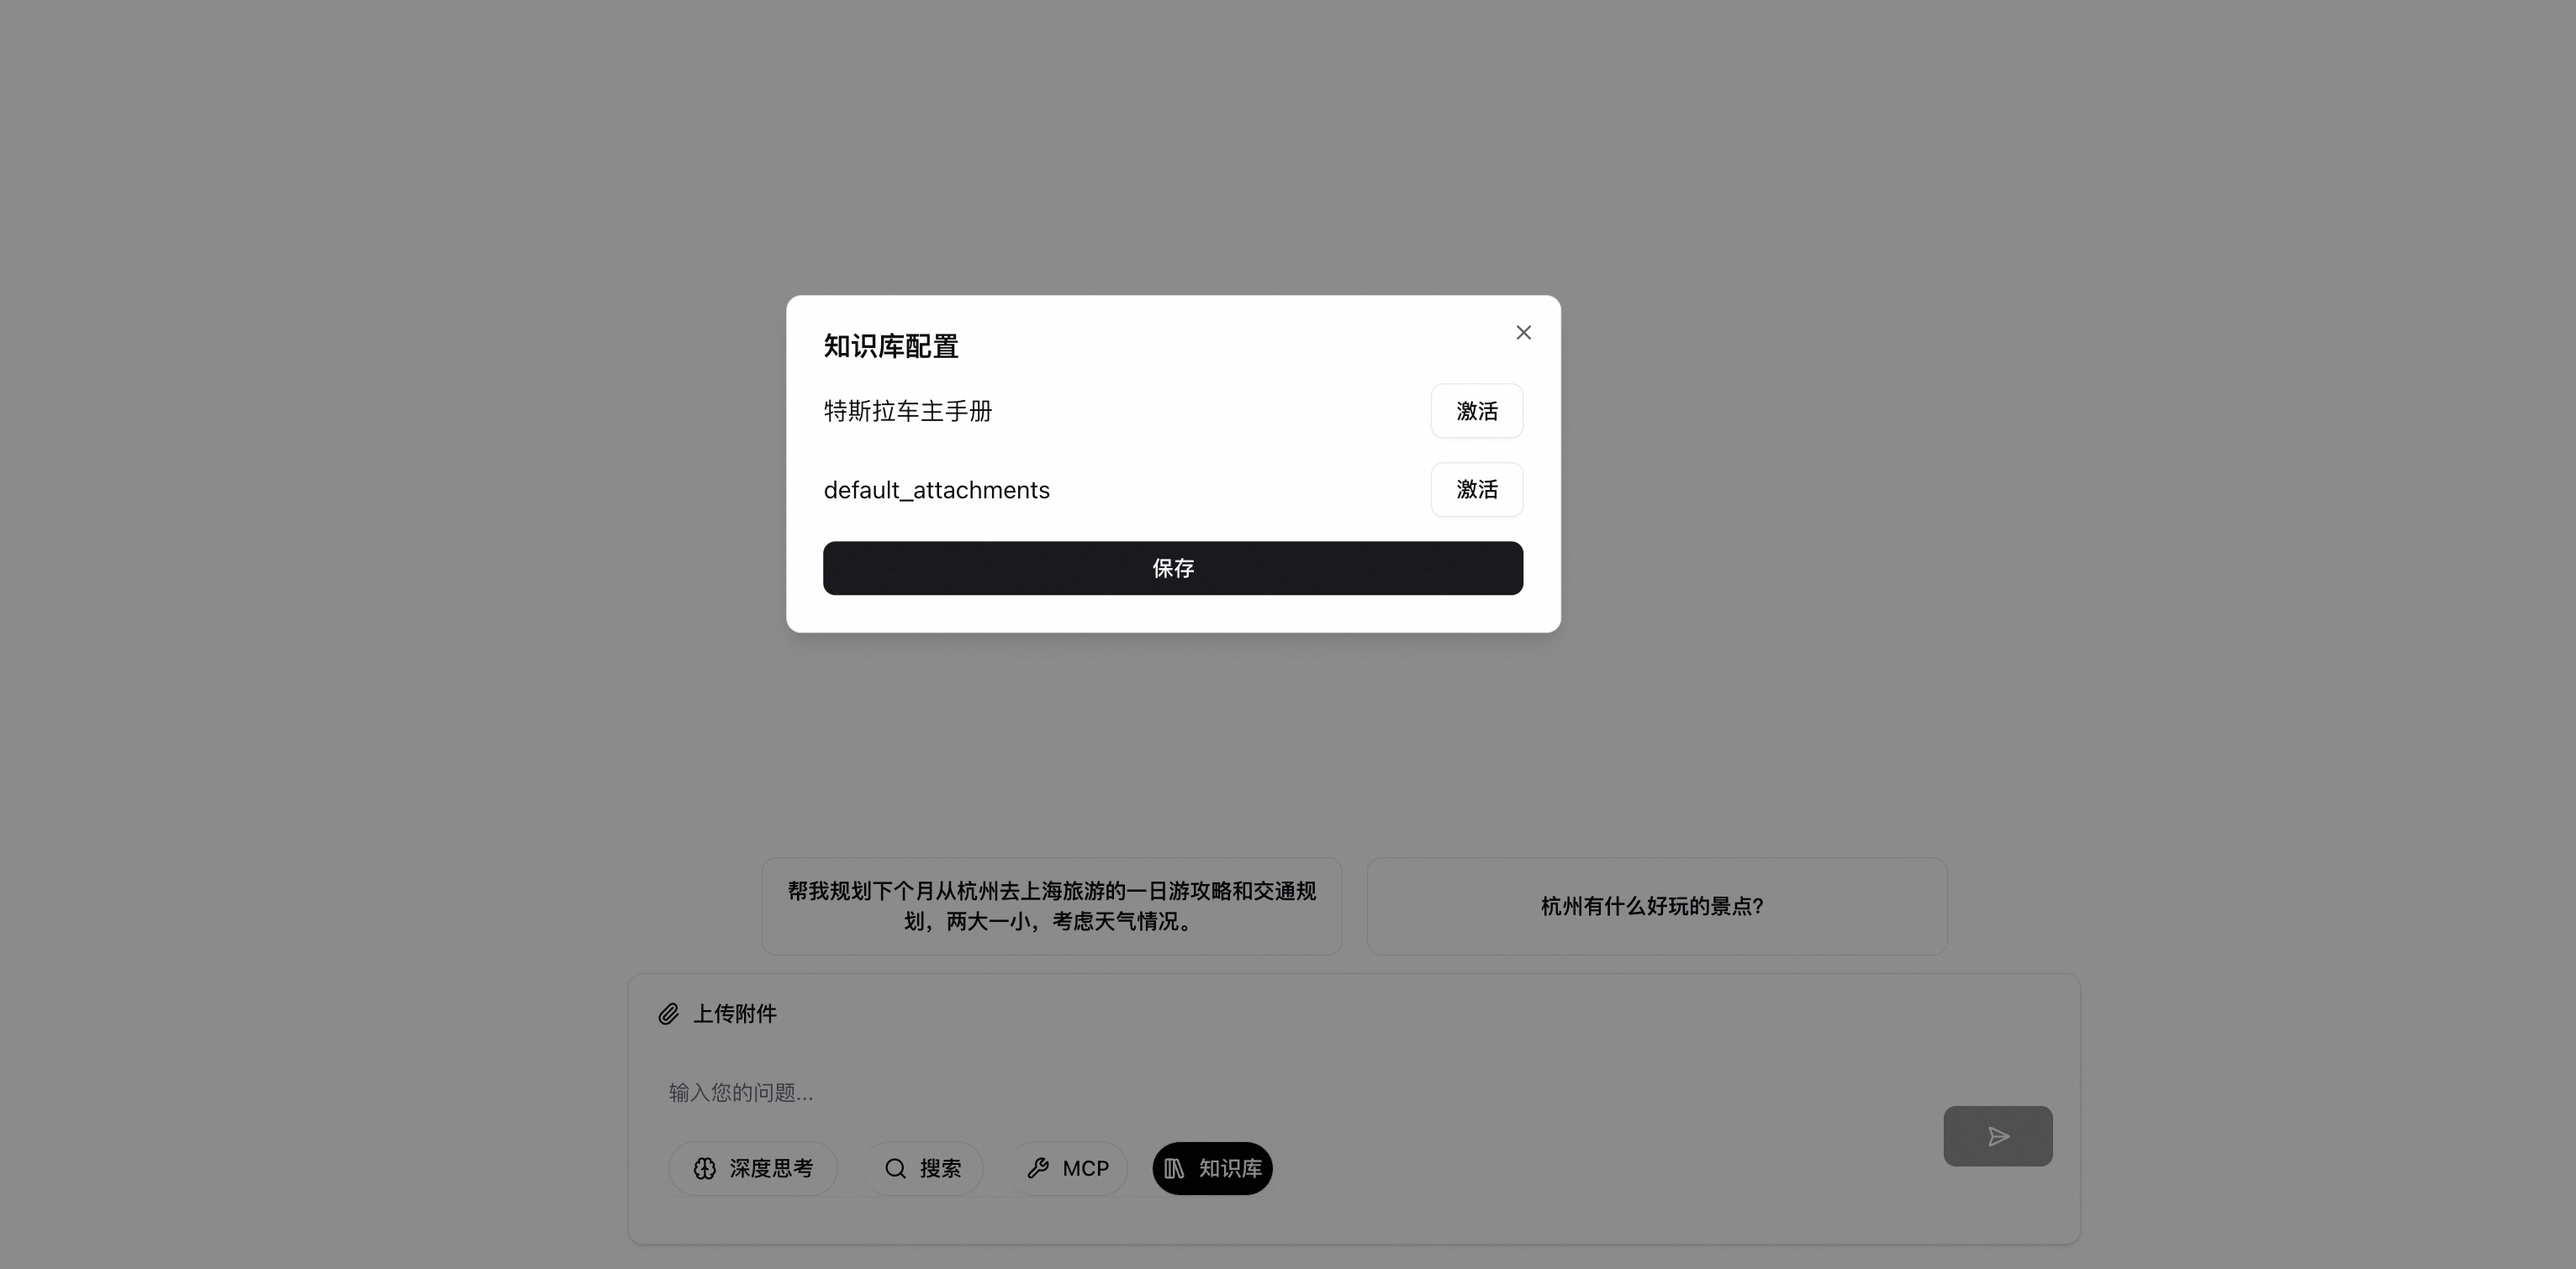
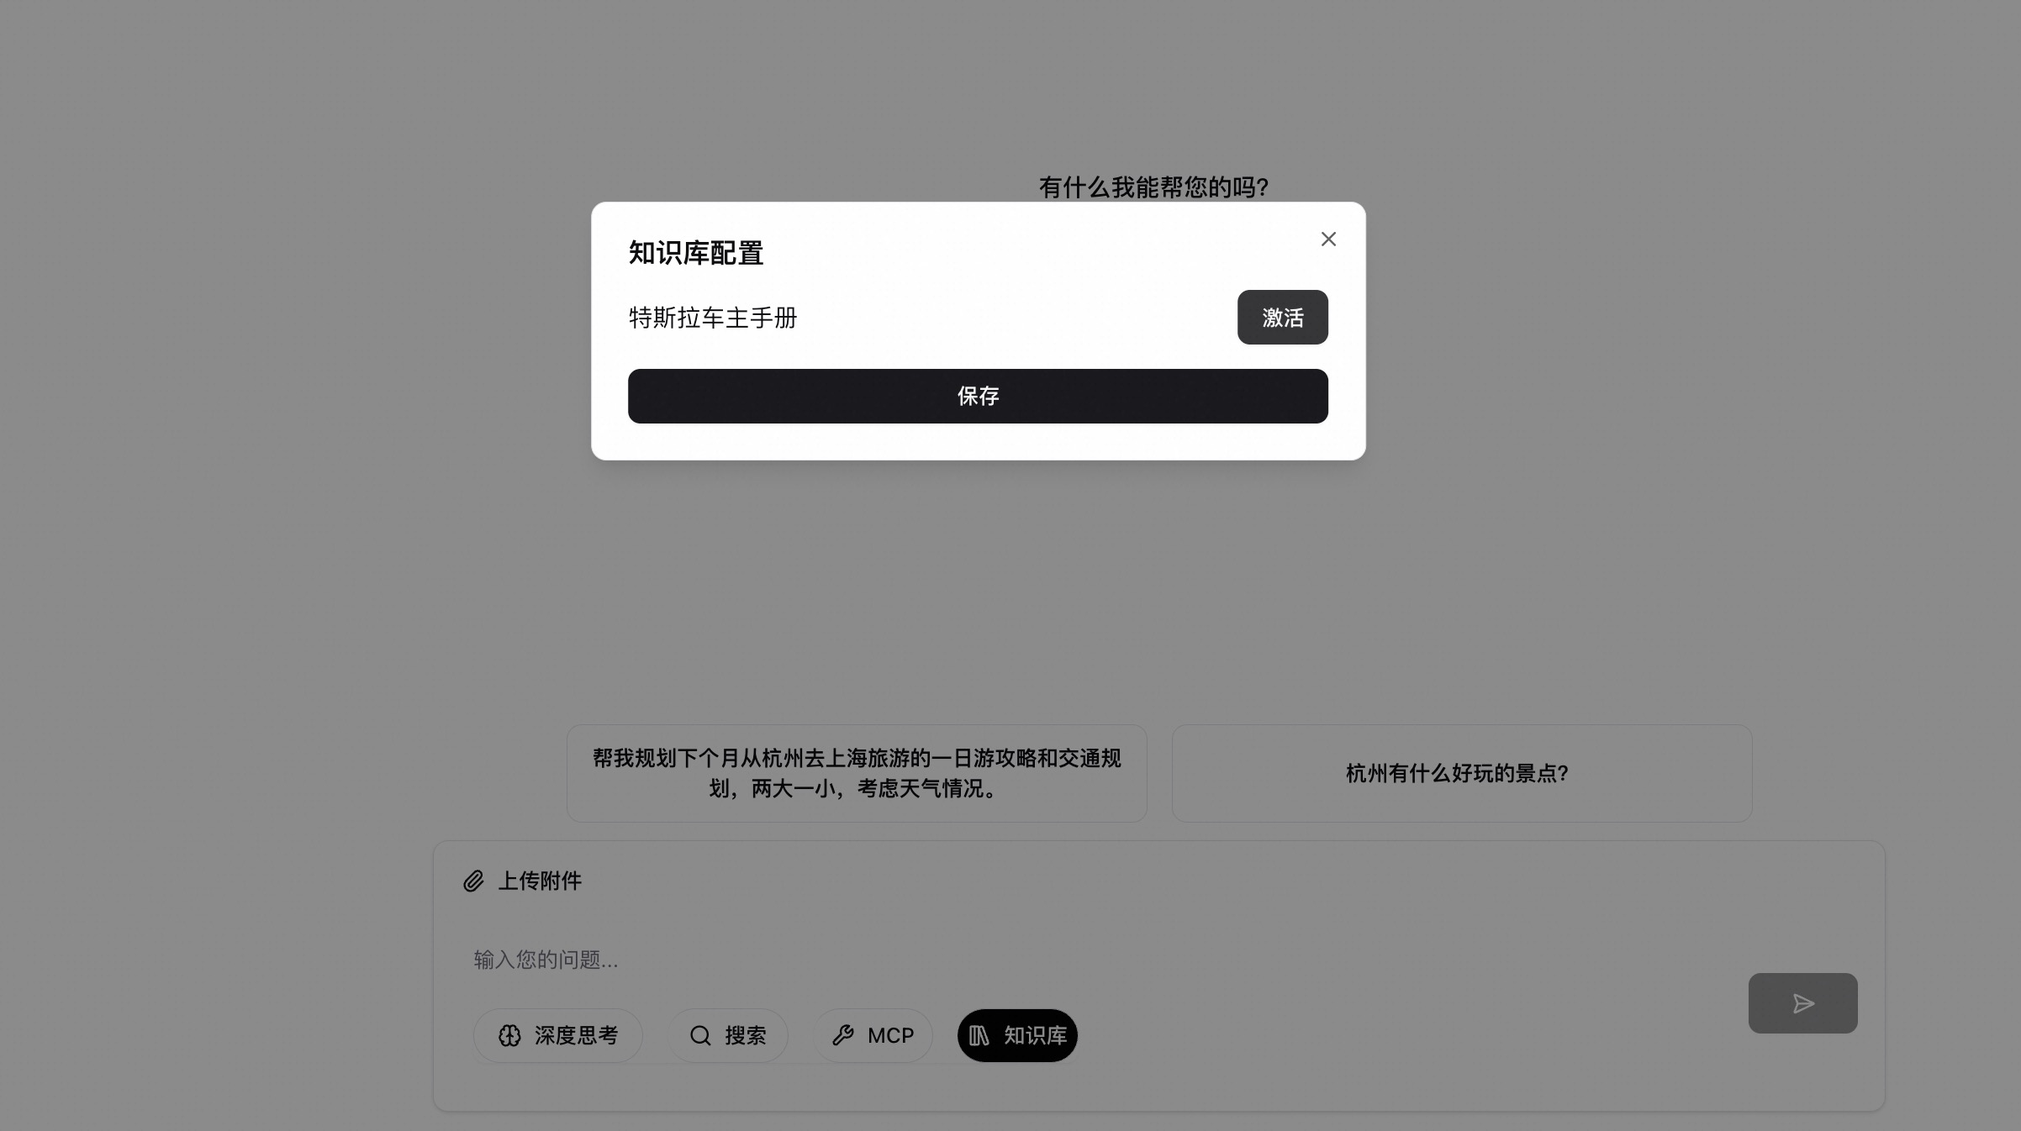
Bugfix for embedding

diff --git a/backend/api/v1/config_apis/embedding.py b/backend/api/v1/config_apis/embedding.py
@@ -18,6 +18,7 @@ from api.response_model import PagedResult, ResponseModel, success_response, err
 from config.providers.config_change_manager import config_change_manager
 from api.v1.utils.paginate import get_pagination_meta
 from config.providers.knowledgebase_provider import knowledgebase_provider
+from rag.chunk_helper import set_embedding_model_ready
 from loguru import logger
 
 embedding_router = APIRouter()
@@ -46,6 +47,10 @@ async def create_embedding(
         if embedding.type == EmbeddingType.LOCAL:
             import app.worker as background_worker
             background_worker.download_model.delay(model_id=embedding.id, model_name=embedding.model_name)
+        elif embedding.type == EmbeddingType.OPENAI_LIKE:
+            await set_embedding_model_ready(model_id=embedding.id)
+        else:
+            logger.error(f"Unknown embedding type {embedding.type}.")
         return success_response(data=embedding, message="创建embedding模型成功。")
     except IntegrityError as e:
         logger.error(f"IntegrityError occurred when add embedding: {e.orig}")

diff --git a/backend/db/models/knowledgebase/metadata_filter.py b/backend/db/models/knowledgebase/metadata_filter.py
@@ -63,18 +63,16 @@ async def query_file_ids_with_metadata_filter(
     metadata_filter: MetadataFilteringCondition,
     user_id: str = None,
 ) -> list[str]:
-    if metadata_filter is None or metadata_filter.conditions is None:
-        return []
 
     # 为了简化实现复杂度，把metadata设定在file这一层
     # TODO: possible limitations: IN clause长度过长导致执行速度慢/超出限制？
     filters = []
 
-
-    for condition in metadata_filter.conditions:
-        condition_filter = _build_metadata_condition_(condition)
-        if condition_filter is not None:
-            filters.append(condition_filter)
+    if metadata_filter is not None and metadata_filter.conditions is not None:
+        for condition in metadata_filter.conditions:
+            condition_filter = _build_metadata_condition_(condition)
+            if condition_filter is not None:
+                filters.append(condition_filter)
 
     sub_clauses = [KbFileEntity.active, KbFileEntity.kb_id == kb_id]
     if len(filters) > 0:

diff --git a/backend/db/models/knowledgebase/embedding.py b/backend/db/models/knowledgebase/embedding.py
@@ -30,8 +30,6 @@ class EmbeddingModel(SQLModel):
     def set_is_ready(self) -> 'EmbeddingModel':
         if self.embed_batch_size <= 0:
             self.embed_batch_size = 10
-        if self.is_ready is None:
-            self.is_ready = self.type == EmbeddingType.OPENAI_LIKE
         return self
 
 

diff --git a/docs/multimodal.md b/docs/multimodal.md
@@ -7,7 +7,9 @@
 - 准备好支持多模态的LLM模型（如Qwen-VL、LLaVA、GPT-4V等）的访问权限
 - 准备测试用图片文件（支持格式：JPG、PNG、JPEG，建议大小<10MB）
 
-## 配置LLM
+## 配置模型 (LLM 和 Embedding)
+
+### 配置LLM
 
 1. 进入模型配置页面
 
@@ -49,8 +51,41 @@
 
 - 点击 "保存" 完成配置
 
+4. 验证模型配置
+   配置成功后，模型列表中应显示新添加的多模态模型和大语言模型，两个模型状态均为"已激活"
+   ![add_llm_models](images/add_llm_models.jpg)
+
+### 配置Embedding
+
+1. 进入模型配置页面
+
+- 点击左下角 Settings（设置图标）→ 选择 Embedding（向量模型）选项卡
+
+2. 添加Embedding模型
+
+- （推荐）PAI-RAG提供了一个内置的本地向量模型（BAAI/bge-m3），会在服务启动时自动下载，下载成功后，卡片右上角状态会从 "下载中" 变为 "可用"，此时可直接使用该向量模型。
+  ![default_embedding](images/default_embedding.jpg)
+
+- 配置其他向量模型：
+
+  - 点击 "添加Embedding模型" 按钮
+  - 填写模型配置信息：
+
+    ```bash
+    模型ID: embedding-test (可自定义)
+    模型名称: text-embedding-v4 (根据实际模型名称填写)
+    模型类型：(根据实际模型情况填写，选择API时需填写EndpointURL和APIKey)
+    向量维度：(根据实际模型情况填写)
+    向量Batch大小：(根据实际情况填写, 推荐值 10)
+    默认向量模型：(根据实际模型情况勾选，若设为默认，则所有附件上传时会使用该模型)
+    ```
+
+    ![add_embedding](images/add_embedding.jpg)
+
+  - 点击 "保存" 完成配置
+
 3. 验证模型配置
-   配置成功后，模型列表中应显示新添加的多模态模型和大语言模型，状态为"已激活"
+   配置成功后，模型列表中应显示模型状态均为"可用"
 
 ## 使用知识库进行多模态问答
 
@@ -60,7 +95,7 @@
 - 点击右上角 "新建知识库"，填写相关信息
   - 知识库名称、知识库描述：知识库相关信息（自定义）
   - 切片大小、切片重叠：描述文档切片的大小和重叠大小
-  - 向量模型：进行切片索引构建时使用的向量模型，默认使用内置的BGE-M3；其他模型需在 "Settings->Model->Embeddings" 中添加。
+  - 向量模型：进行切片索引构建时使用的向量模型，默认使用内置的BAAI/bge-m3；其他模型需在 "Settings->Model->Embeddings" 中添加。
   - Top-K、相似度阈值：进行检索时进行过滤的参数
   - 检索策略：按需选择，推荐 "混合检索"
   - 开启重排序：按需选择，是否使用重排序模型
@@ -89,13 +124,15 @@
 - 在对话框左上角，从模型选择下拉菜单中选择之前配置的大语言模型(e.g. qwen-max)
 - 在输入框中提出与上传的文档及图片相关的问题，例如：
   ```bash
-  请分析这张财报图中的关键数据趋势
-  用中文总结这张图表的主要内容
+  Model3的车窗升降按钮
+  特斯拉内部的无线充电区域什么样子
   ```
 - 点击发送按钮，等待模型响应
 
 4. 查看对话结果
    系统将自动根据问题判断是否需要知识库检索，并结合检索的内容进行理解生成回答，同时过程中会展示知识库检索的内容，问答效果如下：
+   ![kb_mm_qa](images/kb_mm_qa.jpg)
+   ![kb_mm_qa_2](images/kb_mm_qa_2.jpg)
 
 ## 使用附件进行多模态问答
 
